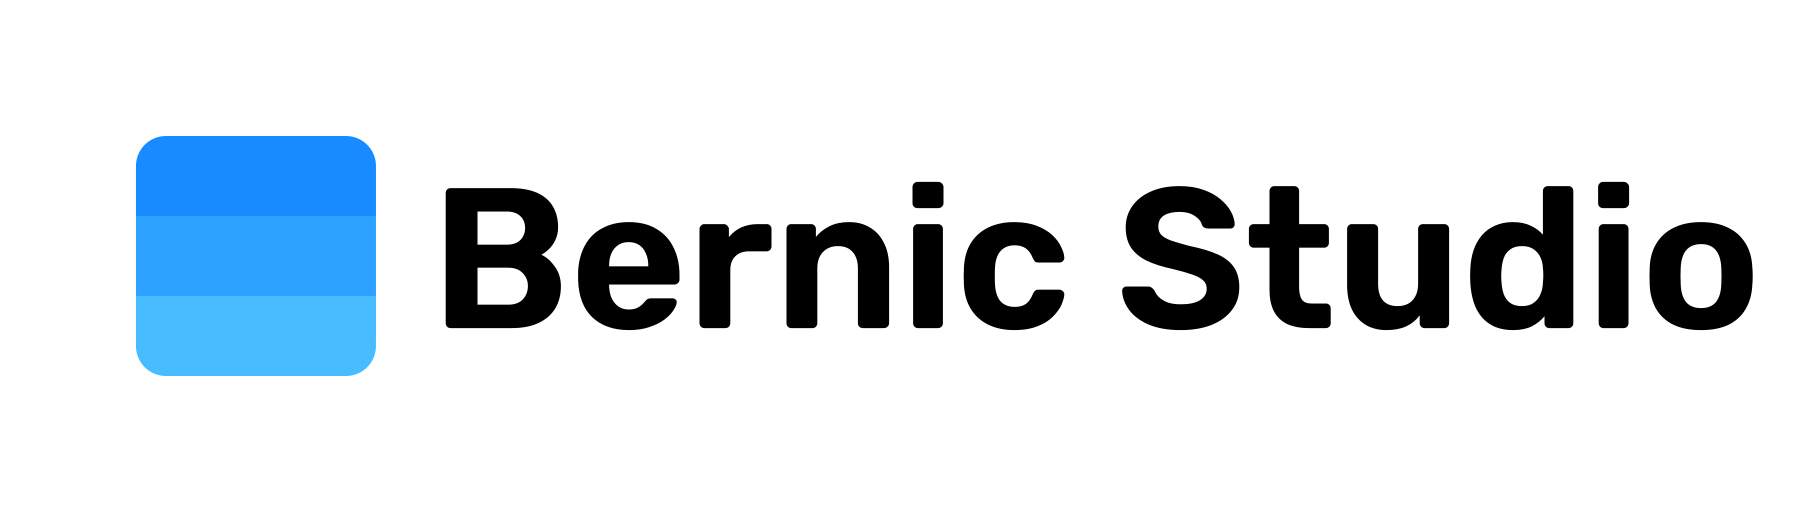
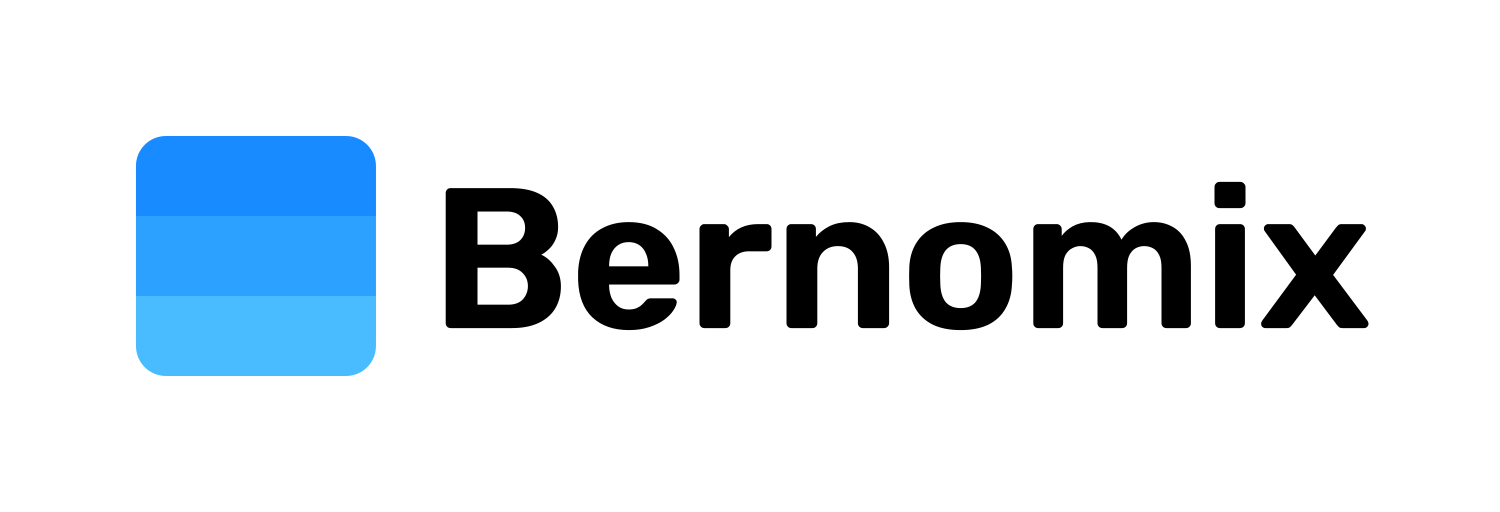
Bernomix

Changed region(s): [[0.184, 0.25, 0.9813, 0.75], [0.0613, 0.25, 0.1227, 0.75], [0.4907, 0.3438, 0.552, 0.4062]]

diff --git a/components/global/layout/GlobalLayoutHeader.vue b/components/global/layout/GlobalLayoutHeader.vue
@@ -24,12 +24,12 @@ function onPathChanged(newPath: string) {
         headerMainLinkProjectsElement.style.backgroundColor = "transparent"
 
         headerMainLinkHomeElement.style.color = "#005fb8";
-        headerMainLinkProjectsElement.style.color = "var(--bernic-studio-general-fcolor-3)"
+        headerMainLinkProjectsElement.style.color = "var(--bernomix-general-fcolor-2)"
       } else if (newPath.startsWith("/projects")) {
         headerMainLinkHomeElement.style.backgroundColor = "transparent";
         headerMainLinkProjectsElement.style.backgroundColor = "#e8e8e8"
 
-        headerMainLinkHomeElement.style.color = "var(--bernic-studio-general-fcolor-3)";
+        headerMainLinkHomeElement.style.color = "var(--bernomix-general-fcolor-2)";
         headerMainLinkProjectsElement.style.color = "#005fb8"
       } else {
         console.log("AUGH!");
@@ -43,12 +43,12 @@ function onPathChanged(newPath: string) {
         headerMainLinkProjectsElement.style.backgroundColor = "transparent"
 
         headerMainLinkHomeElement.style.color = "#005fb8";
-        headerMainLinkProjectsElement.style.color = "var(--bernic-studio-general-fcolor-3)"
+        headerMainLinkProjectsElement.style.color = "var(--bernomix-general-fcolor-2)"
       } else if (newPath.startsWith("/projects")) {
         headerMainLinkHomeElement.style.backgroundColor = "transparent";
         headerMainLinkProjectsElement.style.backgroundColor = "#e8e8e8"
 
-        headerMainLinkHomeElement.style.color = "var(--bernic-studio-general-fcolor-3)";
+        headerMainLinkHomeElement.style.color = "var(--bernomix-general-fcolor-2)";
         headerMainLinkProjectsElement.style.color = "#005fb8"
       } else {
         console.log("AUGH!");
@@ -99,7 +99,7 @@ function onPathChanged(newPath: string) {
 
       a {
         transition: 0.1s;
-        color: var(--bernic-studio-general-fcolor-3);
+        color: var(--bernomix-general-fcolor-2);
         text-decoration: none;
         padding: 5px 11px 6px;
         margin: 0px 4px;

diff --git a/pages/projects/index.vue b/pages/projects/index.vue
@@ -3,11 +3,11 @@
 </script>
 
 <template>
-  <GlobalWelcomeSection titleText="プロジェクト" descriptionTextHtml="<p>プロジェクト一覧<br>このページではBernic Studioのプロジェクトをまとめています。</p>" />
+  <GlobalWelcomeSection titleText="プロジェクト" descriptionTextHtml="<p>プロジェクト一覧<br>このページではBernomixのプロジェクトをまとめています。</p>" />
   <GlobalSectionWithSlot titleText="ウェブ関係">
-    <GlobalCard titleText="Bernic Studio（ウェブサイト）" descriptionTextHtml="<p>Bernic Studioのホームページ。<br><a href='https://github.com/bernic-studio/bernic-studio'>Github</a></p>" />
+    <GlobalCard titleText="Bernomix（ウェブサイト）" descriptionTextHtml="<p>Bernomixのホームページ。<br><a href='https://github.com/bernomix/bernomix'>Github</a></p>" />
   </GlobalSectionWithSlot>
   <GlobalSectionWithSlot titleText="Wiki関係">
-    <GlobalCard titleText="Bernic Studio Wiki" descriptionTextHtml="<p>Bernic StudioのWiki。<br><a href='https://bernic-studio.notion.site/b712c50a26094da7acb45364b0fa0fb4?pvs=4'>Notion</a></p>" />
+    <GlobalCard titleText="Bernomix Wiki" descriptionTextHtml="<p>BernomixのWiki。<br><a href='https://bernomix.notion.site/Bernomix-Wiki-73cd87a7f6a74d11900bba37e83e9c01?pvs=4'>Notion</a></p>" />
   </GlobalSectionWithSlot>
 </template>

diff --git a/pages/index.vue b/pages/index.vue
@@ -3,8 +3,8 @@
 </script>
 
 <template>
-  <GlobalWelcomeSection titleText="ようこそ" descriptionTextHtml="<p>Bernic Studioのホームページへようこそ<br>このサイトではBernic Studioの活動内容をまとめています。</p>" />
+  <GlobalWelcomeSection titleText="ようこそ" descriptionTextHtml="<p>Bernomixのホームページへようこそ<br>このサイトではBernomixの活動内容をまとめています。</p>" />
   <GlobalSectionWithSlot titleText="主なプロジェクト">
-    <GlobalCard titleText="Bernic Studio（ウェブサイト）" descriptionTextHtml="<p>Bernic Studioのホームページ。<br><a href='https://github.com/bernic-studio/bernic-studio'>Github</a></p>" />
+    <GlobalCard titleText="Bernomix（ウェブサイト）" descriptionTextHtml="<p>Bernomixのホームページ。<br><a href='https://github.com/bernomix/bernomix'>Github</a></p>" />
   </GlobalSectionWithSlot>
 </template>

diff --git a/components/global/GlobalWelcomeSection.vue b/components/global/GlobalWelcomeSection.vue
@@ -25,7 +25,7 @@ const props = defineProps({
     padding: 4px 16px;
     border-radius: 50px;
     background-color: #e4e4e4;
-    color: var(----bernic-studio-general-fcolor-2);
+    color: var(----bernomix-general-fcolor-1);
     font-size: 14px;
     font-weight: 600;
   }
@@ -39,7 +39,7 @@ const props = defineProps({
     margin-top: 8px;
     font-weight: 400;
     line-height: 1.4;
-    color: var(--bernic-studio-general-fcolor-3);
+    color: var(--bernomix-general-fcolor-2);
   }
 }
 </style>

diff --git a/assets/styles/global.scss b/assets/styles/global.scss
@@ -14,12 +14,11 @@ a {
   color: #0022ff;
 }
 
-/* Bernic Studio's Templete Colors */
+/* Bernomix's Templete Colors */
 :root {
-  --bernic-studio-general-fcolor-1: #0B0B0F;
-  --bernic-studio-general-fcolor-2: #0B0B0F;
-  --bernic-studio-general-fcolor-3: #424242;
-  --bernic-studio-general-fcolor-4: #5c5c5c;
+  --bernomix-general-fcolor-1: #0B0B0F;
+  --bernomix-general-fcolor-2: #424242;
+  --bernomix-general-fcolor-3: #5c5c5c;
 }
 
 body {

diff --git a/nuxt.config.ts b/nuxt.config.ts
@@ -7,7 +7,7 @@ export default defineNuxtConfig({
   modules: [ '@nuxt/image'],
   app:{
     head: {
-      title: "Bernic Studio",
+      title: "Bernomix",
       meta: [
         { charset: "utf-8" },
         { name: "viewport", content: "width=device-width, initial-scale=1" },

diff --git a/components/global/layout/GlobalLayoutFooter.vue b/components/global/layout/GlobalLayoutFooter.vue
@@ -4,7 +4,7 @@
 
 <template>
   <div class="footer">
-    <p>© 2024 - 2024 Bernic Studio - All Rights Reserved</p>
+    <p>© 2024 - 2024 Bernomix - All Rights Reserved</p>
   </div>
 </template>
 
